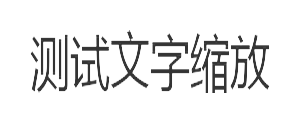
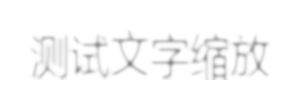
修改

Changed region(s): [[0.09, 0.2455, 0.9, 0.7636]]

diff --git a/src/【加水印】今日水印/【文字水印】生成文字.py b/src/【加水印】今日水印/【文字水印】生成文字.py
@@ -1,7 +1,7 @@
 import os
 import re
 import uuid
-from PIL import Image, ImageDraw, ImageFont
+from PIL import Image, ImageDraw, ImageFont, ImageFilter
 
 
 def generate_text_image(text, output_dir="./output", config=None):
@@ -10,6 +10,7 @@ def generate_text_image(text, output_dir="./output", config=None):
     - width_ratio:  文字最终宽度 = 原始文字宽度 × width_ratio
     - height_ratio: 文字最终高度 = 原始文字高度 × height_ratio
     两者独立，通过对文字位图做非等比拉伸实现（可实现"只变高不变宽"）。
+    - blur_radius:  文字模糊半径（高斯模糊），0 表示不模糊
     """
     if config is None:
         config = {}
@@ -21,11 +22,11 @@ def generate_text_image(text, output_dir="./output", config=None):
     bg_color     = config.get("bg_color", "white")
     width_ratio  = config.get("width_ratio", 1.0)
     height_ratio = config.get("height_ratio", 1.0)
-
+    blur_radius  = config.get("blur_radius", 0)      # 新增：模糊半径
 
     if callable(text):
         text = text()
-    
+
     # 确保最终拿到的是字符串
     if not isinstance(text, str):
         text = str(text)
@@ -55,6 +56,10 @@ def generate_text_image(text, output_dir="./output", config=None):
     target_h = max(1, int(round(bh * height_ratio)))
     text_img = text_img.resize((target_w, target_h), Image.LANCZOS)
 
+    # 4.1 对文字做模糊处理（在拉伸之后做，模糊效果才会跟随缩放一致）
+    if blur_radius and blur_radius > 0:
+        text_img = text_img.filter(ImageFilter.GaussianBlur(radius=blur_radius))
+
     # 5. 画布 = 拉伸后的文字尺寸 + padding，并把文字居中贴上
     final_w = target_w + padding * 2
     final_h = target_h + padding * 2
@@ -66,7 +71,8 @@ def generate_text_image(text, output_dir="./output", config=None):
     os.makedirs(output_dir, exist_ok=True)
     save_path = os.path.join(output_dir, f"{safe_text}.png")
     canvas.save(save_path)
-    print(f"图片已生成: {save_path}  (文字 {bw}x{bh} -> {target_w}x{target_h})")
+    print(f"图片已生成: {save_path}  "
+          f"(文字 {bw}x{bh} -> {target_w}x{target_h}, blur={blur_radius})")
     return save_path
 
 
@@ -78,7 +84,7 @@ if __name__ == "__main__":
         "text_color": "#333333",
         "bg_color": (255, 255, 255, 0),
         "width_ratio": 1.0,
-        "height_ratio": 1.5,
-        "fit_mode": "none",   # 关键：文字保持原大小，画布高 = 文字高 × 150%
+        "height_ratio": 1.2,
+        "blur_radius": 0.8,        # 新增：模糊半径，0 表示不模糊
     }
     generate_text_image("测试文字缩放", output_dir="./output", config=test_config)
